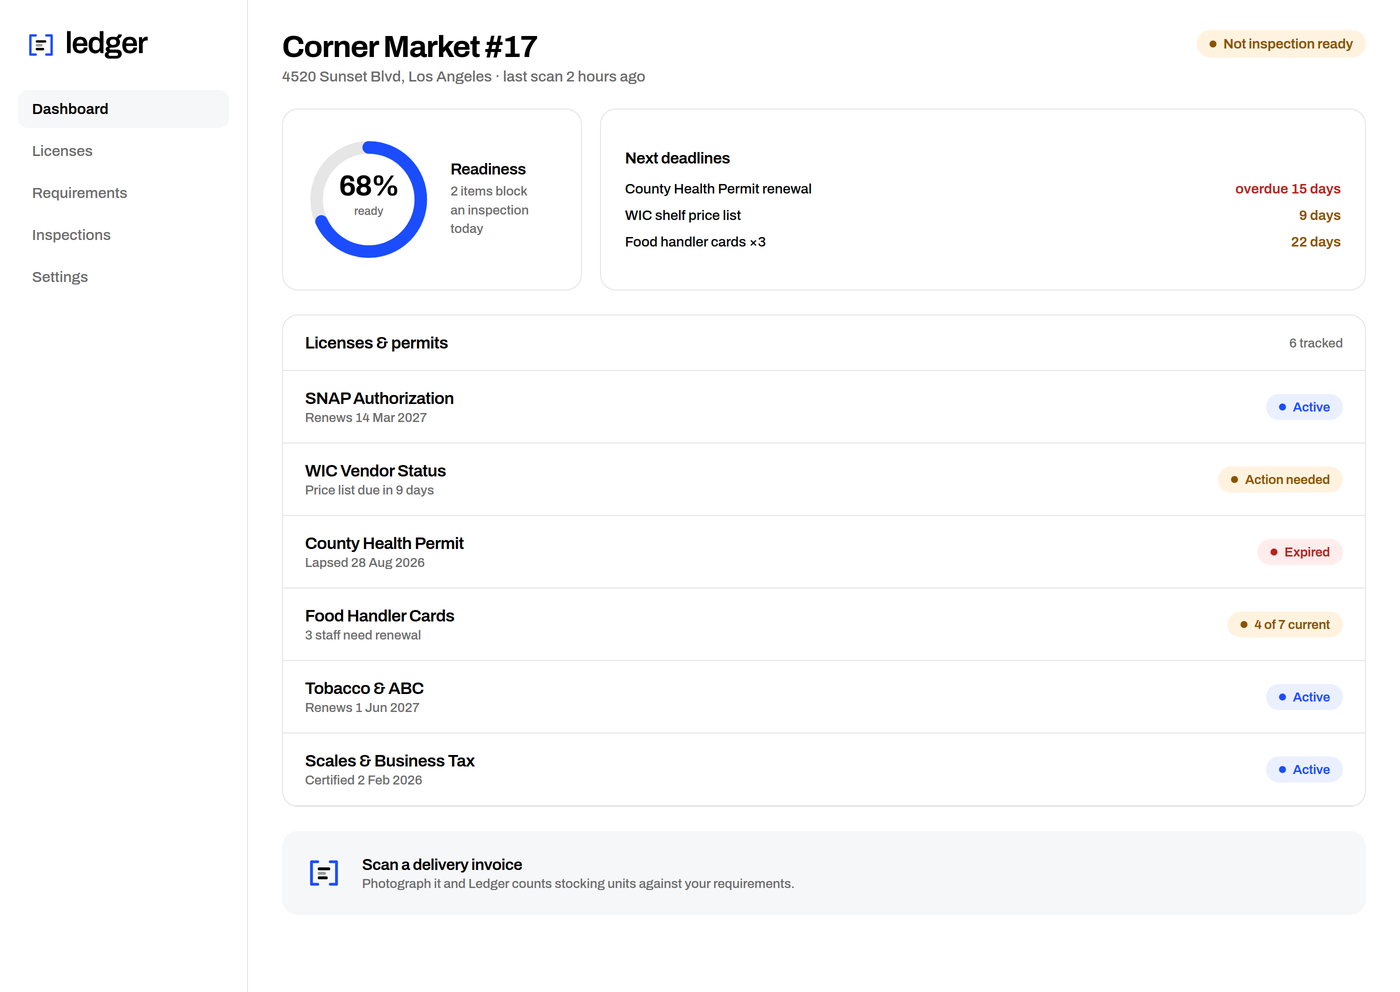
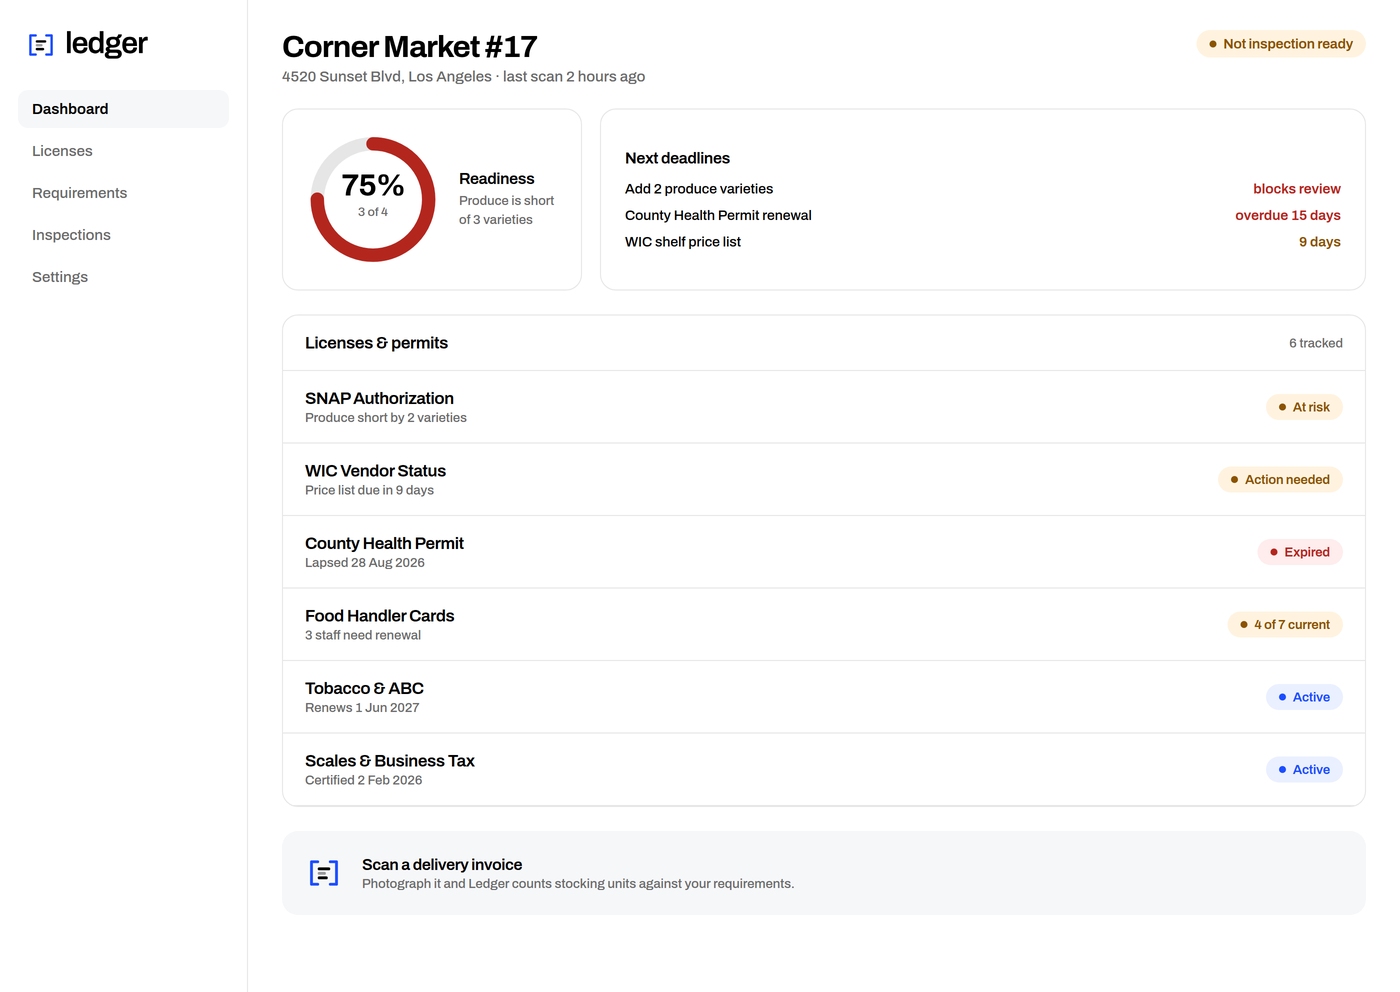
Refine the mocks: real app chrome, bento layout, one shared scenario
The first pass read as generated. Four specific tells, each fixed
structurally rather than by nudging spacing.

A uniform 3x2 grid of bordered cards, each carrying the same Ledger mark
as its icon, is the most recognisable generated-landing-page pattern
there is. The features section is now a bento: one wide card showing the
actual held-back list, one showing live category counts, and three
compact cards beneath. The repeated icon is gone.

Everything was flat and evenly spaced, so nothing led the eye. Added
elevation tokens and applied them to surfaces that should sit above the
page.

The hero showed a floating widget, which reads as a graphic rather than
software. It now shows a real application window with chrome and a URL
bar, bled off the right edge.

Rule-of-three cadence ran through the copy. The three-stat block became a
single number that carries the argument, and the parallel fragment
headings were rewritten as sentences.

Also fixes cards whose content was bottom-aligned inside a tall row,
leaving most of each card empty, and tightens four sections that were
taller than their content.

Unifies the twelve slot images with the shared scenario. They still said
68% ready and SNAP "Active" while every newer mock said 75% and produce
short. site_kit.py is now the single source for that data, so the numbers
cannot drift apart again.

Checked by stacking all nine sections into one page and reading it end to
end.
[…]

diff --git a/brand/tools/build-mocks.py b/brand/tools/build-mocks.py
@@ -378,33 +378,40 @@ def s01_nav():
 
 
 def s02_hero():
+    body = mini_app(f"""
+{app_header("Corner Market #17", "Valley Fresh invoice VF-88213 &middot; scanned 2 minutes ago",
+            pill("bad", "Produce short"))}
+<div style="display:flex;gap:14px">
+ <div class=card style="flex:0 0 168px;padding:16px;display:flex;flex-direction:column;
+   align-items:center;justify-content:center;gap:4px">{ring(75, 96, BAD, "3 of 4")}</div>
+ <div class=card style="flex:1;padding:18px 20px;display:flex;flex-direction:column;
+   justify-content:center;gap:13px">
+  {"".join(f'<div>{cat_bar(n, c)}</div>' for n, c, _ in CATEGORIES)}</div></div>
+<div class=card style="padding:14px 18px;display:flex;align-items:center;gap:12px;
+  background:{WASH};border:none">
+ <span class=h2 style="font-size:13px">4 lines held back as unreadable</span>
+ <span class=mute style="font-size:12px;font-weight:500;flex:1">
+  Roma tomatoes and yellow onions were priced by weight.</span>
+ <span class=h2 style="font-size:12px;color:{BLUE}">Review</span></div>""", "Dashboard", 430)
     return page(f"""
-<div style="width:{SW}px;height:900px;display:flex;align-items:center;gap:56px;padding:0 60px">
- <div style="flex:0 0 640px">
+<div style="width:{SW}px;height:790px;display:flex;align-items:center;overflow:hidden;
+  background:linear-gradient(180deg,{PAPER} 0%,{WASH} 100%)">
+ <div style="flex:0 0 700px;padding-left:60px">
   {pill("neut", "For SNAP and WIC authorized stores", 13)}
-  <div class=h1 style="font-size:64px;margin-top:22px">Know in seconds if<br>you'd pass a
-   stocking<br>review.</div>
-  <div class=mute style="font-size:20px;margin-top:24px;font-weight:500;line-height:1.5">
-   Photograph a delivery invoice. Ledger reads every printed line,<br>
-   counts stocking units by staple category, and tells you<br>
-   where you're short &mdash; before an inspector does.</div>
-  <div style="display:flex;gap:14px;margin-top:34px">
-   <span class=btn style="font-size:16px;padding:16px 26px">Scan an invoice</span>
-   <span class=btn2 style="font-size:16px;padding:16px 26px">See a sample result</span></div>
-  <div class=mute style="font-size:14px;margin-top:22px;font-weight:500">
+  <div class=h1 style="font-size:66px;margin-top:22px;letter-spacing:-.04em">
+   Know in seconds if<br>you'd pass a stocking<br>review.</div>
+  <div class=mute style="font-size:19px;margin-top:24px;font-weight:500;line-height:1.55;
+    max-width:520px">
+   Photograph a delivery invoice. Ledger reads every printed line, counts stocking
+   units by staple category, and tells you where you're short before an inspector does.</div>
+  <div style="display:flex;gap:13px;margin-top:32px;align-items:center">
+   <span class=btn style="font-size:16px;padding:17px 28px">Scan an invoice</span>
+   <span class=btn2 style="font-size:16px;padding:17px 28px">See a sample result</span></div>
+  <div class=mute style="font-size:14px;margin-top:20px;font-weight:500">
    No integration. Works from a phone photo.</div>
  </div>
- <div style="flex:1;background:{WASH};border-radius:22px;padding:34px;height:660px;
-   display:flex;align-items:center;justify-content:center">
-  <div class=card style="width:100%;padding:26px;display:flex;flex-direction:column;gap:18px">
-   <div style="display:flex;justify-content:space-between;align-items:center">
-    <span class=h2 style="font-size:17px">Stocking scorecard</span>{pill("bad","Produce short",12)}</div>
-   {"".join(f'<div style="padding:6px 0">{cat_bar(n, c)}</div>' for n, c, _ in CATEGORIES)}
-   <div style="border-top:1px solid {LINE};padding-top:16px;display:flex;
-     justify-content:space-between;align-items:center">
-    <span class=mute style="font-size:13px;font-weight:500">4 lines held back as unreadable</span>
-    <span class=h2 style="font-size:13px;color:{BLUE}">Review</span></div></div>
- </div></div>""", SW, 900)
+ <div style="flex:1;margin-left:34px;margin-right:-190px">{window(body)}</div>
+</div>""", SW, 860)
 
 
 def s03_how():
@@ -416,8 +423,8 @@ def s03_how():
                 f'justify-content:center">{i}</div>'
                 f'<span class=h2 style="font-size:19px">{t}</span></div>'
                 f'<div class=mute style="font-size:15px;font-weight:500;line-height:1.55">{s}</div>'
-                f'<div class=card style="flex:1;padding:20px;background:{WASH};border:none">'
-                f'{inner}</div></div>')
+                f'<div class=card style="flex:1;padding:20px;background:{WASH};border:none;'
+                f'display:flex;flex-direction:column;justify-content:center">{inner}</div></div>')
     shot1 = (f'<div style="display:flex;flex-direction:column;gap:9px">' +
              "".join(f'<div style="background:{PAPER};border:1px solid {LINE};border-radius:9px;'
                      f'padding:11px 13px;font-size:13px;font-weight:600">{n}</div>'
@@ -446,55 +453,76 @@ def s03_how():
 
 
 def s04_features():
-    def cell(t, s, big=False):
-        return (f'<div class=card style="flex:{2 if big else 1};padding:30px;display:flex;'
-                f'flex-direction:column;gap:14px;justify-content:space-between">'
-                f'<div>{mark(38)}<div class=h2 style="font-size:20px;margin-top:18px">{t}</div>'
-                f'<div class=mute style="font-size:15px;margin-top:9px;font-weight:500;'
-                f'line-height:1.55">{s}</div></div></div>')
+    def txt(t, b, small=False):
+        return (f'<div class="card elev" style="flex:1;padding:{22 if small else 28}px;'
+                f'display:flex;flex-direction:column;justify-content:center">'
+                f'<div class=h2 style="font-size:{16 if small else 19}px">{t}</div>'
+                f'<div class=mute style="font-size:{13 if small else 15}px;margin-top:8px;'
+                f'font-weight:500;line-height:1.55">{b}</div></div>')
+    held = "".join(
+        f'<div style="display:flex;align-items:center;gap:10px;padding:9px 0;'
+        f'border-bottom:1px solid {LINE}">'
+        f'<span class=h2 style="font-size:12px;flex:1">{n}</span>'
+        f'<span class=mute style="font-size:11px;font-weight:500">{w}</span></div>'
+        for n, _, w in EXCLUDED[:3])
     return page(f"""
-<div style="width:{SW}px;height:860px;padding:70px 60px;display:flex;flex-direction:column;gap:40px">
- <div style="max-width:820px">
-  <div class=lbl style="color:{BLUE}">Why Ledger</div>
-  <div class=h1 style="font-size:44px;margin-top:14px">Built to undercount.</div>
-  <div class=mute style="font-size:19px;margin-top:16px;font-weight:500;line-height:1.5">
-   Telling a store it passes when it doesn't is the expensive mistake. Ledger holds back
-   anything it can't read with confidence.</div></div>
- <div style="display:flex;gap:20px;flex:1">
-  {cell("Reads printed invoices", "Two passes: transcribe the lines exactly, then classify them. Transcription errors never get laundered into confident answers.")}
-  {cell("Counts stocking units", "Pack sizes become sellable units. A case priced by weight is held back, not guessed at.")}
-  {cell("Knows the staple rules", "Three varieties in each of four categories. Accessory foods like butter and jerky count for nothing.")}
+<div style="width:{SW}px;height:820px;padding:64px 60px;display:flex;flex-direction:column;gap:30px">
+ <div style="display:flex;align-items:flex-end;justify-content:space-between;gap:60px">
+  <div><div class=lbl style="color:{BLUE}">Why Ledger</div>
+   <div class=h1 style="font-size:46px;margin-top:13px">Built to undercount.</div></div>
+  <div class=mute style="font-size:17px;font-weight:500;line-height:1.55;max-width:440px">
+   Telling a store it passes when it doesn't is the expensive mistake. Anything Ledger
+   can't read with confidence is held back, not scored.</div></div>
+ <div style="display:flex;gap:18px;flex:1.25">
+  <div class="card elev" style="flex:1.55;padding:30px;display:flex;gap:28px;align-items:center">
+   <div style="flex:1">
+    <div class=h2 style="font-size:22px">It shows you what it refused to count</div>
+    <div class=mute style="font-size:15px;margin-top:11px;font-weight:500;line-height:1.6">
+     A case priced by weight has no unit count to read, so Ledger lists it with the reason
+     instead of inventing a number. Four lines held back beats one wrong total.</div></div>
+   <div style="flex:0 0 300px;background:{WASH};border-radius:12px;padding:16px 18px">
+    <div class=lbl style="color:{MUTE};font-size:10px;margin-bottom:6px">Held back</div>
+    {held}</div></div>
+  <div class="card elev" style="flex:1;padding:30px;display:flex;flex-direction:column;
+    justify-content:center;gap:26px">
+   <div style="display:flex;gap:6px">
+    {"".join(f'<div style="flex:1;text-align:center;border:1px solid {LINE};border-radius:9px;padding:11px 3px"><div class=h2 style="font-size:19px;color:{BLUE if c>=3 else BAD}">{c}</div><div class=mute style="font-size:9px;font-weight:600;text-transform:uppercase;letter-spacing:.05em;margin-top:3px">{n[:7]}</div></div>' for n, c, _ in CATEGORIES)}</div>
+   <div><div class=h2 style="font-size:19px">It knows the staple rules</div>
+    <div class=mute style="font-size:14px;margin-top:8px;font-weight:500;line-height:1.55">
+     Three varieties in each of four categories. Butter and jerky are accessory foods,
+     so they count for nothing.</div></div></div>
  </div>
- <div style="display:flex;gap:20px;flex:1">
-  {cell("Shows what it couldn't read", "Every held-back line is listed with the reason, so a human can confirm it in seconds.")}
-  {cell("Tracks every licence", "SNAP, WIC, health permits, food handler cards, scales. One renewal calendar.")}
-  {cell("Keeps the receipts", "Every scan is stored, so you can show an inspector how you got the number.")}
- </div></div>""", SW, 860)
+ <div style="display:flex;gap:18px;flex:0.62">
+  {txt("Two passes, not one", "Transcribe the printed lines exactly, then classify them. Reading mistakes never get laundered into confident answers.", True)}
+  {txt("Cases become units", "A 24-pack is 24 sellable units, not one case. Pack maths happens in one place you can correct.", True)}
+  {txt("Every scan is kept", "Seven years of history, so you can show an inspector how you arrived at the number.", True)}
+ </div></div>""", SW, 880)
 
 
 def s05_proof():
-    def stat(n, l):
-        return (f'<div style="flex:1"><div class=h1 style="font-size:50px">{n}</div>'
-                f'<div class=mute style="font-size:15px;margin-top:8px;font-weight:500">{l}</div></div>')
     return page(f"""
-<div style="width:{SW}px;height:620px;padding:70px 60px;display:flex;gap:56px;align-items:center">
- <div style="flex:1.4">
-  <div style="font-size:30px;font-weight:600;letter-spacing:-.025em;line-height:1.4">
+<div style="width:{SW}px;height:540px;padding:60px;display:flex;gap:64px;align-items:center">
+ <div style="flex:1.5">
+  <div style="font-size:32px;font-weight:600;letter-spacing:-.03em;line-height:1.38">
    &ldquo;We lost SNAP authorization once over two produce varieties nobody noticed
-   were gone. Now I photograph the invoice at the back door and I know before
-   the truck leaves.&rdquo;</div>
-  <div style="display:flex;align-items:center;gap:14px;margin-top:30px">
+   were gone. It took four months to get back. Now I photograph the invoice at the
+   back door and I know before the truck leaves.&rdquo;</div>
+  <div style="display:flex;align-items:center;gap:14px;margin-top:32px">
    <div style="width:46px;height:46px;border-radius:50%;background:{WASH};display:flex;
      align-items:center;justify-content:center;font-weight:600">RM</div>
    <div><div class=h2 style="font-size:16px">Rosa Medina</div>
-    <div class=mute style="font-size:14px;font-weight:500">Owner, Corner Market &mdash; 4 stores, Los Angeles</div></div>
-  </div></div>
- <div style="flex:1;display:flex;flex-direction:column;gap:34px;border-left:1px solid {LINE};
-   padding-left:56px">
-  {stat("20s", "from photo to scorecard")}
-  {stat("4", "staple categories checked every scan")}
-  {stat("0", "lines counted that Ledger wasn't sure about")}
- </div></div>""", SW, 620)
+    <div class=mute style="font-size:14px;font-weight:500">
+     Owner, Corner Market. Four stores in Los Angeles.</div></div></div></div>
+ <div class="card elev" style="flex:0 0 380px;padding:30px">
+  <div class=lbl style="color:{MUTE}">Since switching</div>
+  <div class=h1 style="font-size:64px;margin-top:12px">0</div>
+  <div style="font-size:16px;font-weight:600;margin-top:6px">
+   line items counted that Ledger wasn't certain about</div>
+  <div style="border-top:1px solid {LINE};margin-top:22px;padding-top:18px;display:flex;
+    justify-content:space-between;align-items:baseline">
+   <span class=mute style="font-size:14px;font-weight:500">Average scan</span>
+   <span class=h2 style="font-size:22px">20s</span></div></div>
+</div>""", SW, 600)
 
 
 def s06_pricing():
@@ -594,10 +622,10 @@ def s09_footer():
 
 SECTIONS = {
     "s01-nav.png": (s01_nav, SW, 110),
-    "s02-hero.png": (s02_hero, SW, 900),
+    "s02-hero.png": (s02_hero, SW, 790),
     "s03-how-it-works.png": (s03_how, SW, 760),
-    "s04-features.png": (s04_features, SW, 860),
-    "s05-social-proof.png": (s05_proof, SW, 620),
+    "s04-features.png": (s04_features, SW, 820),
+    "s05-social-proof.png": (s05_proof, SW, 540),
     "s06-pricing.png": (s06_pricing, SW, 900),
     "s07-faq.png": (s07_faq, SW, 790),
     "s08-cta.png": (s08_cta, SW, 460),

diff --git a/brand/tools/build-site-images.py b/brand/tools/build-site-images.py
@@ -114,14 +114,9 @@ def page(body: str, w: int, h: int, extra: str = "") -> str:
 
 
 # --- shared data -------------------------------------------------------------
-LICENSES = [
-    ("SNAP Authorization", "ok", "Active", "Renews 14 Mar 2027"),
-    ("WIC Vendor Status", "warn", "Action needed", "Price list due in 9 days"),
-    ("County Health Permit", "bad", "Expired", "Lapsed 28 Aug 2026"),
-    ("Food Handler Cards", "warn", "4 of 7 current", "3 staff need renewal"),
-    ("Tobacco & ABC", "ok", "Active", "Renews 1 Jun 2027"),
-    ("Scales & Business Tax", "ok", "Active", "Certified 2 Feb 2026"),
-]
+# The scenario lives in site_kit so every mock in the repo agrees on the numbers.
+sys.path.insert(0, str(Path(__file__).resolve().parent))
+from site_kit import LICENSES  # noqa: E402
 
 
 def sidebar() -> str:
@@ -140,20 +135,20 @@ def sidebar() -> str:
     )
 
 
-def ring(pct: int, size: int = 132) -> str:
+def ring(pct: int, size: int = 132, color: str = BLUE, sub: str = "ready") -> str:
     r = 54
     c = 2 * 3.14159 * r
     off = c * (1 - pct / 100)
     return (
         f'<svg width="{size}" height="{size}" viewBox="0 0 128 128" style="display:block">'
         f'<circle cx="64" cy="64" r="{r}" fill="none" stroke="{LINE}" stroke-width="13"/>'
-        f'<circle cx="64" cy="64" r="{r}" fill="none" stroke="{BLUE}" stroke-width="13"'
+        f'<circle cx="64" cy="64" r="{r}" fill="none" stroke="{color}" stroke-width="13"'
         f' stroke-linecap="round" stroke-dasharray="{c:.1f}" stroke-dashoffset="{off:.1f}"'
         f' transform="rotate(-90 64 64)"/>'
         f'<text x="64" y="60" text-anchor="middle" font-family="Archivo" font-size="30"'
         f' font-weight="700" fill="{INK}" letter-spacing="-1">{pct}%</text>'
         f'<text x="64" y="80" text-anchor="middle" font-family="Archivo" font-size="12"'
-        f' font-weight="500" fill="{MUTE}">ready</text></svg>'
+        f' font-weight="500" fill="{MUTE}">{sub}</text></svg>'
     )
 
 
@@ -183,19 +178,19 @@ def img_01_hero() -> tuple[str, int, int]:
   </div>
   <div style="display:flex;gap:18px">
    <div class=card style="flex:0 0 300px;padding:24px;display:flex;align-items:center;gap:20px">
-    {ring(68)}
+    {ring(75, 132, "#B3261E", "3 of 4")}
     <div><div class=h2 style="font-size:16px">Readiness</div>
      <div class=mute style="font-size:13px;margin-top:4px;font-weight:500;line-height:1.45">
-      2 items block<br>an inspection today</div></div></div>
+      Produce is short<br>of 3 varieties</div></div></div>
    <div class=card style="flex:1;padding:24px;display:flex;flex-direction:column;justify-content:center;gap:14px">
     <div class=h2 style="font-size:16px">Next deadlines</div>
     <div style="display:flex;flex-direction:column;gap:11px">
      <div style="display:flex;justify-content:space-between;font-size:14px;font-weight:500">
+      <span>Add 2 produce varieties</span><span style="color:#B3261E;font-weight:600">blocks review</span></div>
+     <div style="display:flex;justify-content:space-between;font-size:14px;font-weight:500">
       <span>County Health Permit renewal</span><span style="color:#B3261E;font-weight:600">overdue 15 days</span></div>
      <div style="display:flex;justify-content:space-between;font-size:14px;font-weight:500">
       <span>WIC shelf price list</span><span style="color:#8A5300;font-weight:600">9 days</span></div>
-     <div style="display:flex;justify-content:space-between;font-size:14px;font-weight:500">
-      <span>Food handler cards &times;3</span><span style="color:#8A5300;font-weight:600">22 days</span></div>
     </div></div>
   </div>
   <div class=card style="overflow:hidden">
@@ -250,8 +245,8 @@ def img_03_step2() -> tuple[str, int, int]:
     rows = "".join(license_row(*l, compact=True) for l in LICENSES[:5])
     return step_shell("See where you stand", "Every requirement, one screen.", f"""
 <div class=card style="padding:26px;display:flex;align-items:center;gap:22px">
- {ring(68, 120)}
- <div><div class=h2 style="font-size:19px">2 items block an inspection</div>
+ {ring(75, 120, "#B3261E", "3 of 4")}
+ <div><div class=h2 style="font-size:19px">Produce is 2 varieties short</div>
   <div class=mute style="font-size:14px;margin-top:6px;font-weight:500;line-height:1.5">
    One permit has lapsed and one filing<br>is due inside the week.</div></div></div>
 <div class=card style="overflow:hidden">{rows}</div>"""), 900, 907

diff --git a/brand/tools/site_kit.py b/brand/tools/site_kit.py
@@ -111,6 +111,9 @@ body{{font-family:'Archivo',system-ui,sans-serif;color:{INK};background:{PAPER};
 .lbl{{font-size:12px;font-weight:600;text-transform:uppercase;letter-spacing:.09em}}
 .btn{{background:{BLUE};color:{PAPER};border-radius:11px;padding:14px 22px;font-size:15px;
  font-weight:600;display:inline-block}}
+.elev{{box-shadow:0 1px 2px rgba(16,20,32,.05),0 10px 28px rgba(16,20,32,.07)}}
+.elev2{{box-shadow:0 2px 4px rgba(16,20,32,.06),0 24px 60px rgba(16,20,32,.12)}}
+.meas{{max-width:60ch}}
 .btn2{{border:1px solid {LINE};border-radius:11px;padding:14px 22px;font-size:15px;
  font-weight:600;display:inline-block}}
 """
@@ -171,3 +174,26 @@ def cat_bar(name, have, need=REQUIRED_VARIETIES, width=None) -> str:
             f'<div style="display:flex;align-items:center;justify-content:space-between;'
             f'margin-bottom:10px"><span class=h2 style="font-size:15px">{name}</span>{state}</div>'
             f'<div style="display:flex;gap:5px">{segs}</div></div>')
+
+
+def window(inner, w=None, title="app.ledger.co/dashboard", pad=0):
+    """A real application window. A floating card reads as a widget; chrome reads
+    as software, which is what a hero is meant to show."""
+    dots = "".join(f'<div style="width:11px;height:11px;border-radius:50%;background:#DDE1E6"></div>'
+                   for _ in range(3))
+    return (f'<div class=elev2 style="{"width:%dpx;" % w if w else ""}border:1px solid {LINE};'
+            f'border-radius:14px;overflow:hidden;background:{PAPER}">'
+            f'<div style="height:44px;border-bottom:1px solid {LINE};display:flex;'
+            f'align-items:center;gap:9px;padding:0 15px;background:#FBFBFC">{dots}'
+            f'<div style="flex:1;display:flex;justify-content:center">'
+            f'<div style="background:{PAPER};border:1px solid {LINE};border-radius:7px;'
+            f'padding:4px 16px;font-size:11px;font-weight:500;color:{MUTE}">{title}</div></div>'
+            f'<div style="width:66px"></div></div>'
+            f'<div style="padding:{pad}px">{inner}</div></div>')
+
+
+def mini_app(inner, active="Dashboard", h=430):
+    """A cut-down app body for embedding inside a window."""
+    return (f'<div style="display:flex;height:{h}px">{app_sidebar(active, 180)}'
+            f'<div style="flex:1;min-width:0;padding:22px 24px;display:flex;'
+            f'flex-direction:column;gap:16px">{inner}</div></div>')
